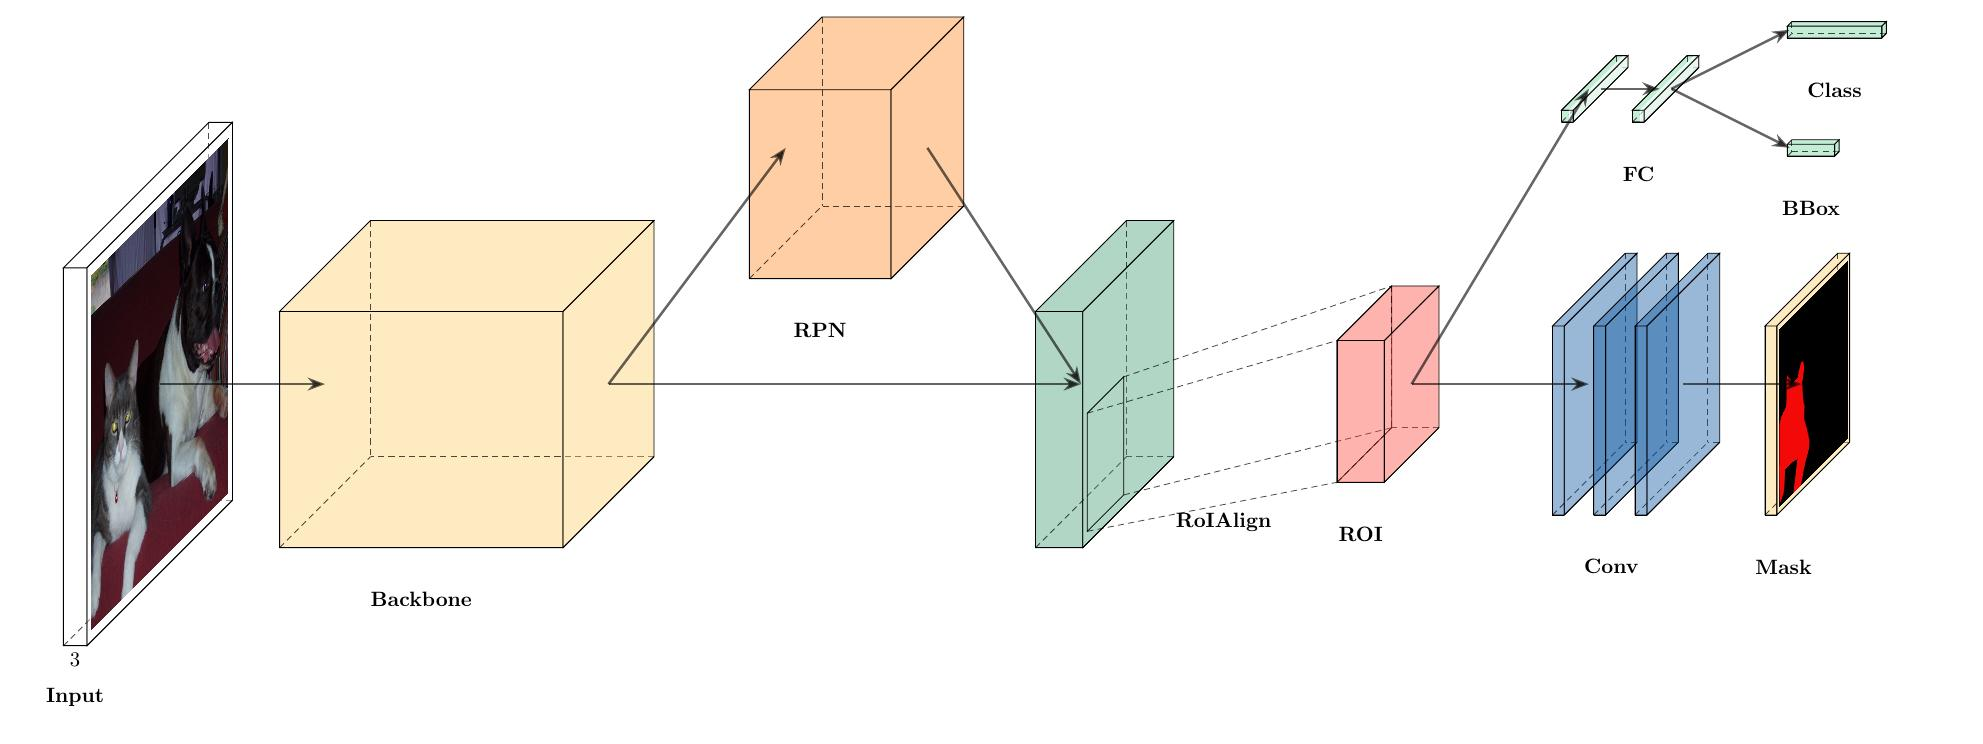
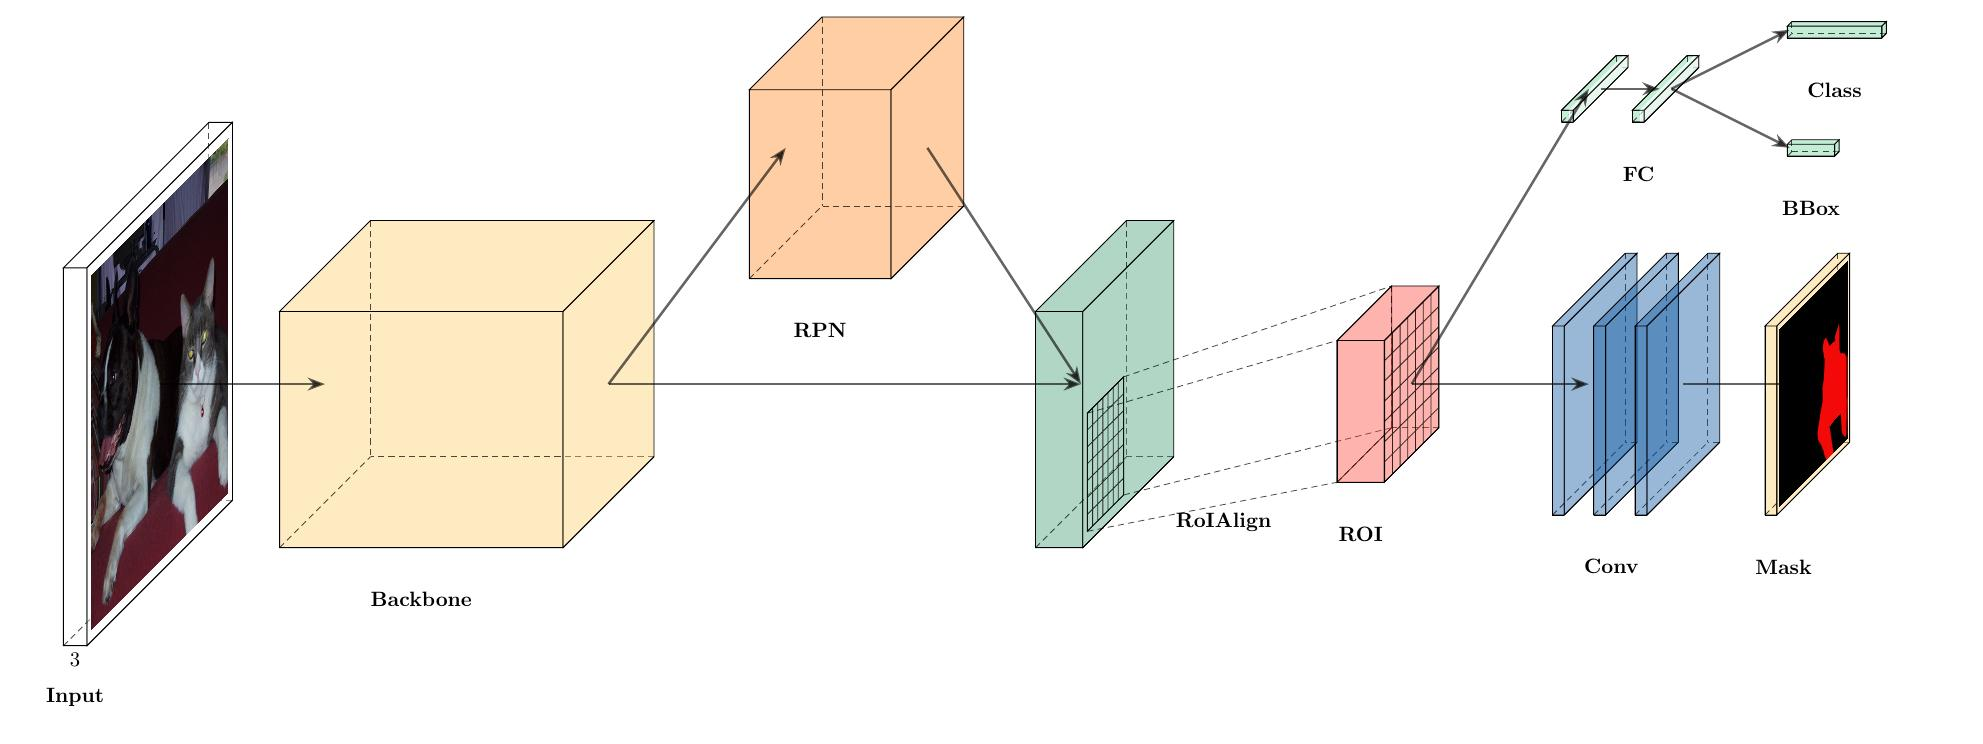
Add Grid

diff --git a/plotnn/tikzeng.py b/plotnn/tikzeng.py
@@ -254,6 +254,22 @@ class Text(Base):
         return super(Text, self).to_tex()
 
 
+class Grid(Base):
+    def __init__(self, name, location=(0, 0, 0), offset=(0, 0, 0),
+                 width=1, height=1, step=3, caption="",
+                 color="none", opacity=0.8):
+        self.template_name = "grid.tex"
+        super(Grid, self).__init__(
+            name=name, raw_location=location, offset=offset,
+            width=width, height=height, step=step, opacity=opacity,
+            color=color, caption=caption
+        )
+
+    def to_tex(self):
+        self.attributes['location'] = parse_location(self.attributes['raw_location'])
+        return super(Grid, self).to_tex()
+
+
 class Rectangle(Base):
     def __init__(self, name, location=(0, 0, 0), offset=(0, 0, 0),
                  width=1, height=1, color="white", linecolor="black",

diff --git a/examples/Python/maskrcnn.py b/examples/Python/maskrcnn.py
@@ -23,8 +23,10 @@ def main():
                    input_offset=(0, -0.8, 1), input_width=8, input_height=10,
                    output_offset=(4, 0.8, -1), output_width=12, output_height=12,
                    caption="RoIAlign"),
+        tk.Grid("roi_in", location="RoIAlign-west", width=8, height=10, step=7),
         tk.Box("roi", location="RoIAlign-east", width=4, height=12, depth=12,
                color="\\red", caption="ROI"),
+        tk.Grid("roi_out", location="roi-east", width=12, height=12, step=7),
         # Box head
         tk.FC("fc0", location="roi-east", activation="relu", offset=(3, 5, 0), depth=12),
         tk.FC("fc1", location="fc0-east", activation="relu", offset=(1, 0, 0), depth=12, caption="FC"),

diff --git a/plotnn/templates/objects/grid.tex b/plotnn/templates/objects/grid.tex
@@ -1,0 +1,11 @@
+\pic[shift={ {{- offset -}} }] at {{ location }} {
+    Grid={
+        name={{ name }},
+        caption={{ caption }},
+        height={{ height }},
+        width={{ width }},
+        step={{ step }},
+        fill={{ color|default("white") }},
+        opacity={{ opacity|default("0.8") }}
+    }
+};

diff --git a/plotnn/layers/init.tex b/plotnn/layers/init.tex
@@ -8,3 +8,4 @@
 \usepackage{Rectangle}
 \usepackage{Frustum}
 \usepackage{Colors}
+\usepackage{Grid}
